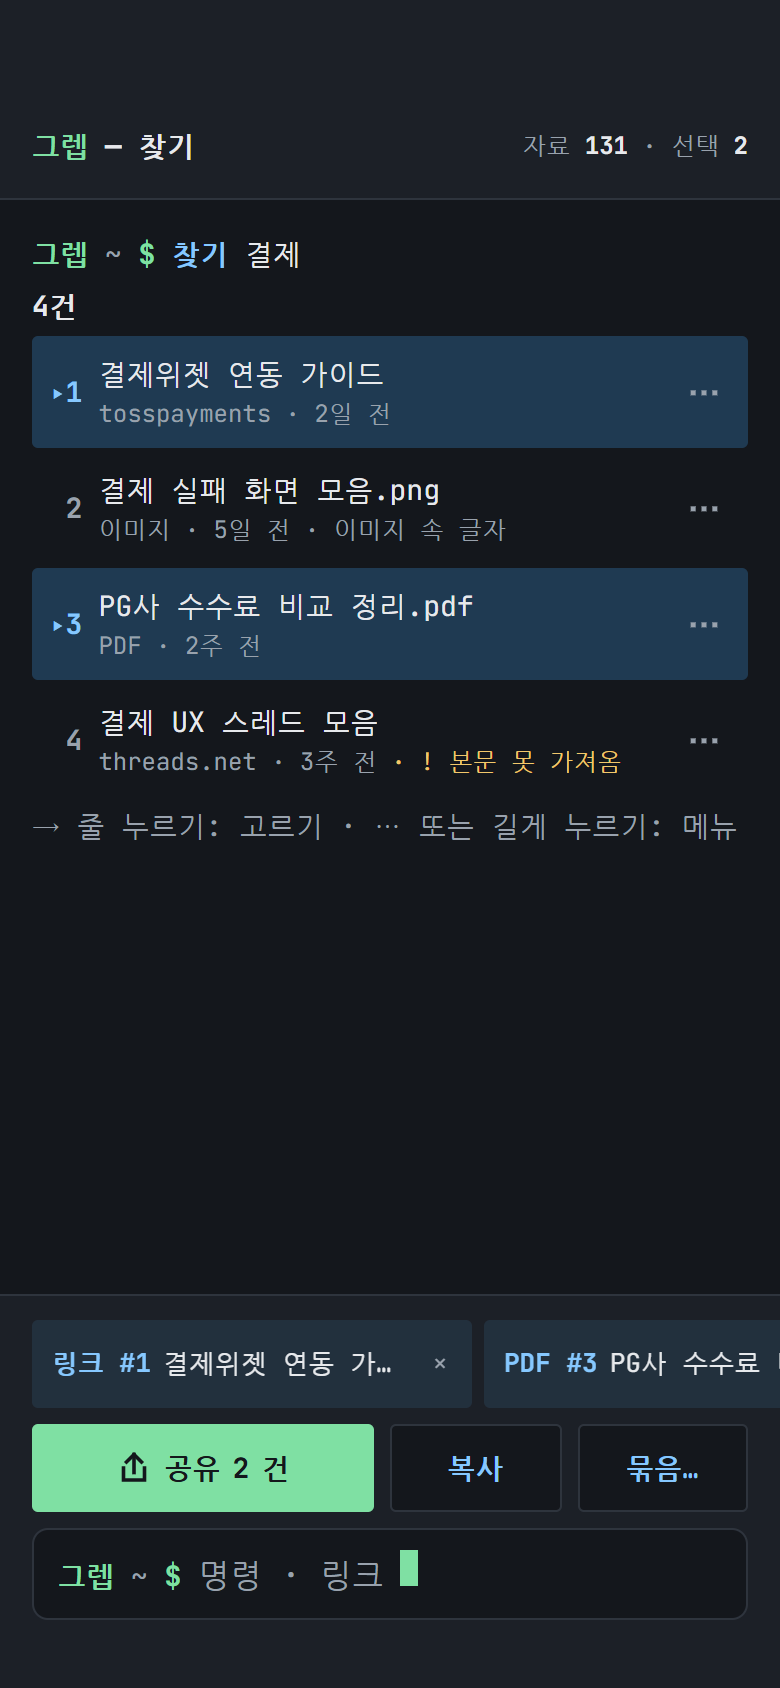
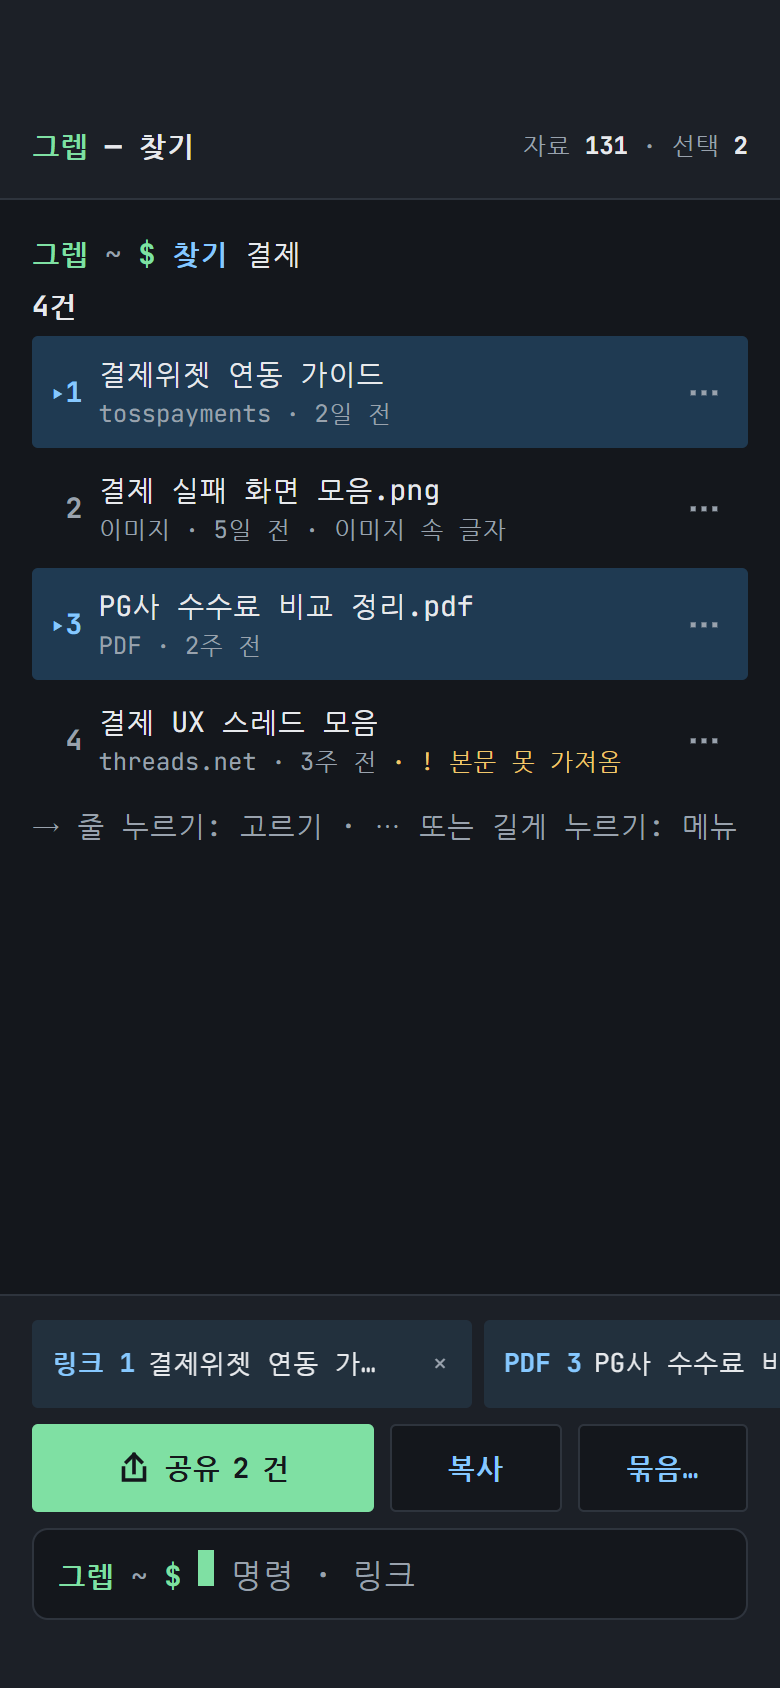
docs: 디자인 첨삭 프롬프트를 첫 검토 반영 결정에 맞추고 시안 캡처를 버전 25로 다시 렌더

diff --git a/docs/planning/design-review-prompt.md b/docs/planning/design-review-prompt.md
@@ -2,24 +2,25 @@
 
 - 작성일: 2026-11-26
 - 용도: 그렙을 모르는 디자인 전문가(사람 또는 AI)에게 화면 시안 첨삭을 부탁할 때 아래 "복사할 부분"을 그대로 붙여 넣는다. 시안 이미지나 링크를 함께 첨부한다.
-- 근거: [기획 한눈에 보기](overview.md), [기획서](PRD.md), [명령어 설명서](commands.md), [사용자 흐름도](user-flow.md), [디자인 레퍼런스](design-references.md)
+- 근거: [기획 한눈에 보기](overview.md), [기획서](PRD.md), [명령어 설명서](commands.md), [사용자 흐름도](user-flow.md), [디자인 레퍼런스](design-references.md), [디자이너 시안 검토](design-review-2026-11-26.md), [STATE](STATE.md) 결정 로그(2026-11-26)
+- 첫 외부 디자이너 검토(2026-11-26)를 반영한 뒤의 두 번째 검토용이다. 프롬프트 5절에 첫 검토로 바뀐 것을 적어 같은 지적이 되풀이되지 않게 했다.
 
 ## 첨부할 시안 이미지
 
-[design-review-shots/](design-review-shots/)에 시안 캔버스 18장을 2배 해상도로 렌더해 두었다(2026-11-26 기준 시안). 첫 플랫폼이 웹이라 웹 8장과 모바일 5장을 먼저 보내고, 데스크톱 두더지 5장은 필요할 때 더한다.
+[design-review-shots/](design-review-shots/)에 시안 캔버스 18장을 2배 해상도로 렌더해 두었다(시안 캔버스 버전 25, 2026-11-26). 첫 플랫폼이 웹이라 웹 8장을 먼저 보낸다. 웹 01~07에는 첫 검토 반영이 들어 있다. 모바일 5장과 데스크톱 두더지 5장에는 아직 반영되지 않아(목록 위치 번호, 숫자 선택지 `1 · 2 · 3` 등) 필요할 때만 "검토 반영 전"이라고 밝히고 더한다.
 
 | 파일 | 화면 |
 |---|---|
-| `web-01-Main.png` | 첫 화면(자료 0건, 도움말, 예시 명령) |
+| `web-01-Main.png` | 첫 화면(자료 0건, 한 문장 소개, 샘플 8건으로 해 보기) |
 | `web-02-Save.png` | 저장, 본문 못 가져옴, 이미 저장됨, 끌어다 놓기 |
 | `web-03-Search.png` | 찾기(결과, 0건, 10건 초과) |
-| `web-04-Handoff.png` | 고르기, 넘기기, 묶음, 5건 초과 확인 |
-| `web-05-Errors.png` | 오타, 터미널 명령 입력, 설명서, 삭제 확인, 자동 완성 |
+| `web-04-Handoff.png` | 고르기, 넘기기(넘긴 자료와 미리보기), 5건 초과 확인 |
+| `web-05-Errors.png` | 오타 제안, `grep` 입력 받아 실행, 설명서, 버리기 확인, 자동 완성 |
 | `web-06-Light.png` | 밝은 테마(찾기 화면) |
 | `web-07-Play.png` | 직접 쳐 보기(인터랙티브 시안의 첫 상태) |
 | `web-08-Moles.png` | 두더지 동작 7가지 |
-| `mobile-M1`~`M5` | 모바일 첫 화면, 입력창, 찾기·고르기, 공유로 저장, 넘기기 |
-| `desktop-D1`~`D5` | 데스크톱 두더지 상주, 끌어 오기, 저장 로그, 빠른 창, 직접 해 보기 |
+| `mobile-M1`~`M5` | 모바일 첫 화면, 입력창, 찾기·고르기, 공유로 저장, 넘기기(첫 검토 반영 전) |
+| `desktop-D1`~`D5` | 데스크톱 두더지 상주, 끌어 오기, 저장 로그, 빠른 창, 직접 해 보기(첫 검토 반영 전) |
 
 ## 복사할 부분
 
@@ -45,25 +46,33 @@
 
 # 4. 화면 컨셉과 이미 정한 것
 - 터미널 느낌의 웹 화면. 프롬프트 `그렙 ~ $`, 입력줄 한 줄, 명령마다 결과 덩어리가 아래로 쌓임, 맨 아래 상태줄(`자료 131 · 선택 2 · 묶음 결제조사 · 요약 생성 중 1`).
-- 명령은 한글이 기본이고 영문판이 같이 있습니다(담기/keep, 최근/recent, 찾기/seek, 고르기/pick, 넘기기/handoff, 묶음/pack, 고치기/revise, 버리기/drop, 도움말/guide, 설명/about 등 13개). 진짜 터미널 명령(grep, ls, cp 등)과 겹치는 이름은 일부러 피했습니다.
-- 화면 문구는 진짜 터미널처럼 건조한 로그체입니다. 예: `✓ 저장됨  결제위젯 연동 가이드 (docs.tosspayments.com)`, `! 이미 저장됨 → 131번 (새로 만들지 않음)`, `✗ 없는 명령: 찻기`, `→ 고르기 131 140 · 넘기기`. 해요체·이모지·느낌표를 쓰지 않습니다. 기호: ✓ 성공, · 안내, ! 알림(실패 아님), ✗ 실패, → 다음에 칠 명령.
-- 처음 쓰는 사람을 위해: 첫 화면에 두더지 마스코트 배너, 명령 목록, 누르면 입력줄에 채워지는 예시 명령 버튼. 출력 끝에는 늘 "다음에 칠 명령"을 보여 줍니다.
+- 명령은 한글이 기본이고 영문판이 같이 있습니다(담기/keep, 최근/recent, 찾기/seek, 고르기/pick, 넘기기/handoff, 묶음/pack, 고치기/revise, 버리기/drop, 도움말/guide, 설명/about 등 13개). 정식 이름은 진짜 터미널 명령(grep, ls, cp 등)과 겹치지 않게 했습니다. 다만 같은 일이 분명한 진짜 명령은 입력을 받아 실행합니다(`grep`·`find` → 찾기, `ls` → 최근, `help`·`man`·`?` → 도움말. `rm`·`copy` 같은 것은 안내만).
+- 화면 문구는 진짜 터미널처럼 건조한 로그체입니다. 예: `✓ 저장됨  결제위젯 연동 가이드 (docs.tosspayments.com)`, `! 이미 저장됨 → 131번 (새로 만들지 않음)`, `✗ 없는 명령: 찻기`. 해요체·이모지·느낌표를 쓰지 않습니다. 기호: ✓ 성공, · 안내, ! 알림(실패 아님), ✗ 실패, → 다음에 칠 명령.
+- 화면의 숫자는 자료 번호 한 가지 뜻만 씁니다. 그래서 확인 질문은 숫자 선택지 대신 명령 이름을 다시 치는 낱말로 받습니다(`버리기? <제목>` → `버리기`를 다시 치면 실행, 그 외 입력은 취소. 5건 초과 넘기기는 `앞10`·`전부`).
+- 명령은 가장 빠른 길이되 유일한 길은 아닙니다. 다음에 칠 명령은 누를 수 있는 칩으로 보이고, 화면의 명령·번호를 누르면 입력줄에 찍힙니다. 입력은 너그럽게 받습니다(오타 제안을 엔터로 실행, 흐린 다음 명령을 Tab으로 채우기, 영문 자판으로 친 한글 명령 알아듣기).
+- 처음 쓰는 사람을 위해: 첫 화면은 두더지 마스코트, 한 문장 소개(`저장해 둔 링크·캡처·PDF를 찾아 AI 도구에 붙여 넣을 글로 복사`), 표어 `담기 → 찾기 → 넘기기`, 그리고 `샘플 8건으로 해 보기` 하나입니다. 명령 전체 목록은 `도움말`로 뺐습니다. 샘플은 실제 자료로 저장되고 `버리기 1-8`로 치웁니다.
+- 글꼴: 명령·번호·로그는 고정폭, 요약처럼 읽는 문장은 가변폭(Noto Sans KR)으로 나눴습니다. 입력줄은 화면 아래에 고정입니다.
+- 넘기기 결과에는 넘긴 자료 목록, 복사된 글 미리보기(접기 가능), "AI 도구 입력창에 붙여 넣기" 안내가 나옵니다.
 - 어두운 테마가 기본이고 밝은 테마도 있습니다. 로그인은 Google·GitHub.
 - 첫 플랫폼은 데스크톱 웹입니다. 휴대폰 공유로 저장하기는 나중 단계입니다.
-- 일정: 12월 초 발표용 데모. 데모 핵심 흐름은 "로그인 → 링크 저장 → 찾기 → 고르기 → 넘기기(복사)"이고, 저장해 둔 자료를 찾아 복사하기까지 1분 안이 목표입니다.
+- 일정: 12월 초 발표용 데모. 데모 핵심 흐름은 "로그인 → 링크 저장 → 찾기 → 고르기 → 넘기기(복사)"이고, 30건 넘게 저장된 상태에서 원하는 자료를 찾아 복사하기까지 1분 안이 목표입니다. 데모는 비개발자인 마케터가 캠페인을 준비하는 이야기로 보입니다. 시안의 결제 관련 예시 자료는 화면 예시일 뿐입니다.
 
-# 5. 저희가 가장 걱정하는 것
+# 5. 이미 한 번 받은 검토
+다른 디자이너 한 분께 같은 시안의 앞선 버전을 검토받았고, 4절의 숫자 대신 낱말 확인, 진짜 명령 받아 주기, 첫 화면 단순화, 다음 명령 칩, 글꼴 분리, 넘기기 미리보기, 입력 받아 주기, 찾기 0건 뒤 최근 3건에 `(검색 결과 아님)` 머리줄, 목록 두 줄 행·폭 제한·`더 보기`가 그 결과로 들어갔습니다. 같은 지적을 되풀이하기보다, 이렇게 바뀐 결과가 실제로 나아졌는지, 새로 생긴 문제는 없는지 봐 주시면 좋겠습니다. 이 결정에 반대하신다면 그 의견도 환영합니다.
+첨부 가운데 웹 화면에는 이 반영이 들어 있습니다. 모바일·데스크톱 화면은 아직 반영 전이라(목록 위치 번호, 숫자 선택지 등) 참고로만 봐 주세요.
+
+# 6. 저희가 가장 걱정하는 것
 1) 비개발자가 터미널 느낌의 화면을 반길지, 겁낼지. "개발자가 된 듯한 재미"와 "명령어를 외워야 하는 부담" 사이의 균형.
-2) 개발자에게는 "터미널처럼 생겼지만 진짜가 아닌 화면"이 장식이나 흉내로 보이지 않을지.
-3) 명령줄은 기억해서 쳐야 하는 방식이라, 고르기·버튼·자동 완성을 어디까지 섞어야 하는지.
-4) 고정폭 글꼴과 어두운 바탕에서 한글 요약 본문의 가독성. 한글 고정폭 글꼴 선택(D2Coding 등)과 본문 글꼴 분리 여부.
-5) 자료 목록(제목·출처·저장 시각·한 줄 요약·태그·번호)이 터미널 텍스트 안에서 훑어보기 쉬운지.
+2) 개발자에게는 "터미널처럼 생겼지만 진짜가 아닌 화면"이 장식이나 흉내로 보이지 않을지. 진짜 명령을 받아 주는 것이 오히려 흉내를 키우지 않을지.
+3) 칩·누르기·자동 완성을 더한 지금, 명령을 쳐서 쓰는 방식과 눌러서 쓰는 방식이 섞여 어느 쪽도 어정쩡해지지 않았는지.
+4) 고정폭(명령·로그)과 가변폭(읽는 문장)을 나눈 경계가 맞는지, 어두운 바탕에서 한글 요약의 가독성.
+5) 자료 목록(번호·제목·출처·저장 시각·한 줄 요약·꼬리표)이 터미널 텍스트 안에서 훑어보기 쉬운지.
 
-# 6. 부탁드리는 것
+# 7. 부탁드리는 것
 첨부한 시안을 보시고 아래 순서로 답해 주세요.
 1) 첫인상: 이 서비스가 무엇을 하는지 화면만 보고 5초 안에 알 수 있는지, 무엇이 먼저 눈에 들어오는지.
 2) 문제점 목록: 화면(또는 영역)마다 "무엇이 문제인지 → 왜 문제인지 → 어떻게 고치면 좋을지"를 적고, 심각도를 높음·중간·낮음으로 표시해 주세요.
-3) 5절의 걱정 다섯 가지에 대한 의견.
+3) 6절의 걱정 다섯 가지에 대한 의견.
 4) 터미널 컨셉을 지키면서 입문자 진입 장벽을 낮출 구체적인 방법 3가지 이내.
 5) 발표 데모 전(며칠 안)에 꼭 고칠 것과, 이후로 미뤄도 되는 것 구분.
 
